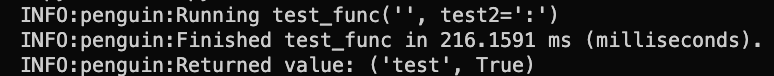
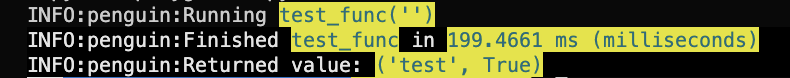
links

diff --git a/README.md b/README.md
@@ -64,9 +64,10 @@ This will output the following to your logger:
     verbose=True,
     show_args=True,
     show_return=True,
+    foreground='cyan',
+    background='yellow',
 )
 def test_func(test1, test2=None):
-    # NOTE: this function can be anything!
     for i in range(10000000):
         pass
     return "test", True
@@ -78,6 +79,8 @@ test = test_func("", test2=":")
 This will output the following to your logger:
 
 ![Sample penguin output kwargs](/img/sample_output_kwargs.png)
+
+**Note**: For a more detailed list of all kwargs and their defaults, visit this section: [List of kwargs](#kwargs_list)
 
 ❌ Since `penguin` is a decorator that takes in kwargs, do **not** call it without the brackets `()`.
 
@@ -97,6 +100,7 @@ test = test_func("", test2=":")
 
 You'll get a `TypeError` relating to arguments.
 
+<a name="kwargs_list"/>
 ## List of kwargs
 
 - `verbose`: When `True`, it shows all logs that are described by the other kwargs. When `False`,
